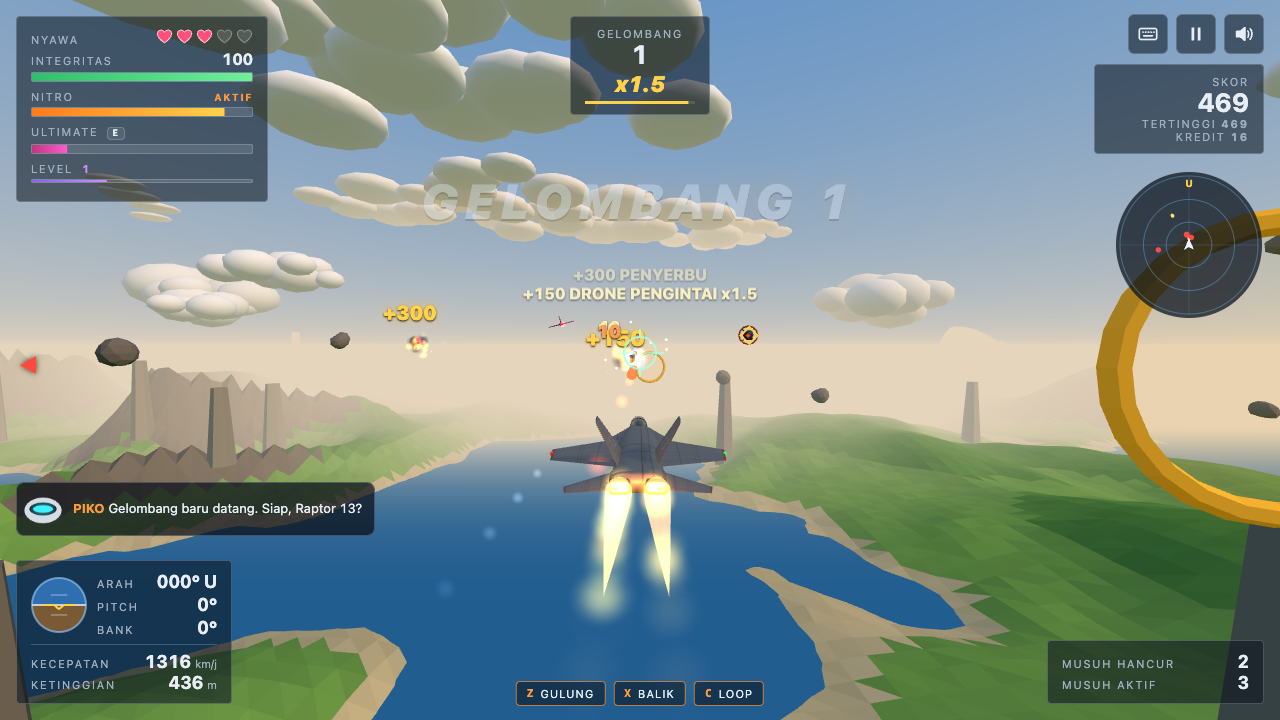
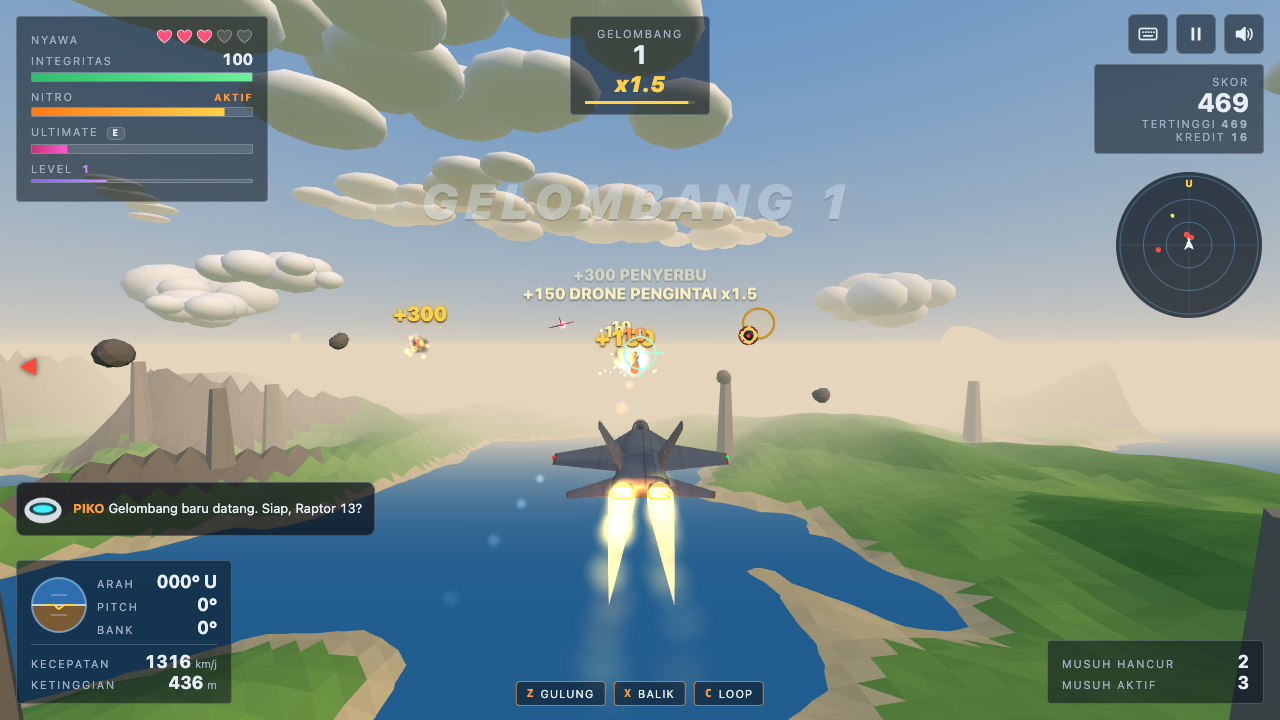
feat: H4 pusat notifikasi tunggal mode HP dengan antrean prioritas, chip peringatan kritis di tepi bawah, Bantuan robot Penuh, Ringkas, Hanya ikon, Mati
- Notify: satu toast di bawah baris misi, maksimal 2 baris dan tidak melewati 20 persen tinggi, lebar dibatasi elemen tetangga, kedaluwarsa dan sela prioritas
- Piko, banner, toast, dan panel data dialihkan ke Notify di mode HP; popup skor dibuang (angka emas melayang tetap ada)
- Peringatan terrain, HP kritis, musuh belakang, komet menjadi chip ikon berkedip di tepi bawah, teks maksimal 3 kata
- Teks ringkas Piko tanpa petunjuk tombol keyboard; migrasi opsi lama tanpa-teks dan tanpa-suara
- Hook debug stressHud, notify, notifyPush, alerts; hook viewport, setSetting, touchState dipulihkan

diff --git a/index.html b/index.html
@@ -517,6 +517,32 @@
   body.mode-hp .buff { padding: 2px 6px; gap: 4px; font-size: 11px; }
   body.mode-hp .buff span { display: none; }
   body.mode-hp .buff svg { width: 13px; height: 13px; }
+  /* Pusat notifikasi mode HP (H4): elemen teks lama disembunyikan, diganti satu toast dan chip tepi */
+  body.mode-hp #piko-panel, body.mode-hp #data-panel, body.mode-hp #banner, body.mode-hp #toasts,
+  body.mode-hp #warning, body.mode-hp #rear-warn, body.mode-hp #comet-warn, body.mode-hp #critical { display: none !important; }
+  .notify, .alerts { display: none; }
+  body.mode-hp .notify { --eye: 24px; --nl: 2;
+    display: flex; position: absolute; left: 50%; top: calc(var(--sa-t) + 28px); transform: translateX(-50%); max-width: min(56vw, 340px);
+    align-items: center; gap: 6px; padding: 2px 10px 2px 4px; min-height: calc(var(--eye) + 4px); background: rgba(8, 14, 24, 0.8);
+    border: 1px solid var(--ui-line); border-radius: 14px; font-size: 12px; line-height: 13px; font-weight: 700; color: #eef4fa;
+    text-shadow: 0 1px 2px rgba(0, 0, 0, 0.6); pointer-events: none; opacity: 0; visibility: hidden; transition: opacity 0.25s, visibility 0s linear 0.25s; }
+  body.mode-hp .notify.show { opacity: 1; visibility: visible; transition: opacity 0.2s; }
+  .notify:not(.piko) { padding-left: 10px; min-height: 0; padding-top: 3px; padding-bottom: 3px; }
+  #notify-eye { width: var(--eye); height: var(--eye); flex: none; display: none; }
+  .notify.piko #notify-eye { display: block; }
+  #notify-text { display: -webkit-box; -webkit-box-orient: vertical; -webkit-line-clamp: var(--nl); line-clamp: var(--nl); overflow: hidden; }
+  #notify-text:empty { display: none; }
+  .notify.piko:has(#notify-text:empty) { padding-right: 4px; }
+  .notify.k-area { border-color: rgba(111, 220, 255, 0.7); }
+  .notify.k-new { border-color: #ffd24a; color: #fff3c4; }
+  .notify.k-alert { border-color: rgba(255, 77, 77, 0.7); }
+  body.mode-hp .alerts { display: flex; position: absolute; left: 50%; bottom: var(--sa-b); transform: translateX(-50%); gap: 6px; pointer-events: none; }
+  .alert { display: flex; align-items: center; gap: 4px; height: 24px; padding: 0 9px 0 6px; border-radius: 12px; font-size: 11px; font-weight: 900;
+    letter-spacing: 0.06em; white-space: nowrap; color: #ffe0e0; background: rgba(120, 0, 0, 0.6); border: 1px solid var(--ui-bad); animation: alertBlink 0.7s steps(2) infinite; }
+  .alert svg { width: 15px; height: 15px; flex: none; fill: none; stroke: currentColor; stroke-width: 2.4; stroke-linecap: round; stroke-linejoin: round; }
+  .alert.comet { color: #d8f6ff; background: rgba(0, 70, 110, 0.6); border-color: #6fdcff; }
+  .alert.ic-only { padding: 0 4px; } .alert.ic-only span { display: none; }
+  @keyframes alertBlink { 50% { opacity: 0.5; } }
   body.mode-hp #warning, body.mode-hp #rear-warn, body.mode-hp #comet-warn, body.mode-hp #critical {
     top: auto; left: calc(50% - 33px); padding: 3px 7px; font-size: 10px; letter-spacing: 0.06em; white-space: nowrap; max-width: max(140px, calc(100vw - 520px)); overflow: hidden; text-overflow: ellipsis; }
   body.mode-hp #warning { bottom: calc(96px + var(--ed-b)); border-width: 1px; }
@@ -808,6 +834,14 @@
   <div id="fps" class="hidden">0 FPS</div>
   <div id="banner"></div>
   <div id="toasts"></div>
+  <!-- Mode HP (H4): satu toast notifikasi di tengah atas dan chip peringatan kritis di tepi bawah -->
+  <div id="notify" class="notify" aria-live="polite"><canvas id="notify-eye" width="48" height="48"></canvas><span id="notify-text"></span></div>
+  <div id="alerts" class="alerts">
+    <div class="alert hidden" data-alert="terrain"><svg viewBox="0 0 24 24"><path d="M12 19V5M5.5 11.5L12 5l6.5 6.5"/></svg><span>TARIK NAIK</span></div>
+    <div class="alert hidden" data-alert="hp"><svg viewBox="0 0 24 24"><path d="M12 20.5C5 15 1.5 11.5 1.5 7 1.5 3.8 4 1.5 7 1.5c2.2 0 3.9 1.2 5 3 1.1-1.8 2.8-3 5-3 3 0 5.5 2.3 5.5 5.5 0 4.5-3.5 8-10.5 13.5z"/><path d="M12 8v5"/></svg><span>HP KRITIS</span></div>
+    <div class="alert hidden" data-alert="rear"><svg viewBox="0 0 24 24"><path d="M12 5v14M5.5 12.5L12 19l6.5-6.5"/></svg><span>MUSUH BELAKANG</span></div>
+    <div class="alert comet hidden" data-alert="comet"><svg viewBox="0 0 24 24"><circle cx="16" cy="8" r="3.5"/><path d="M13.5 10.5L4 20M11 8.5L5 14.5M15.5 12.5L9.5 18.5"/></svg><span>KOMET</span></div>
+  </div>
 </div>
 <!-- Kontrol sentuh (mode HP): joystick melayang atau tombol arah di kiri, cluster aksi di kanan (ditukar di mode kidal) -->
 <div id="touch" class="hidden" aria-hidden="true">
@@ -971,7 +1005,7 @@
       </div>
       <span class="set-label">Bantuan robot</span>
       <div class="seg" data-key="robotHelp">
-        <button type="button" data-v="penuh">Penuh</button><button type="button" data-v="tanpa-teks">Tanpa teks</button><button type="button" data-v="tanpa-suara">Tanpa suara</button><button type="button" data-v="mati">Mati</button>
+        <button type="button" data-v="penuh">Penuh</button><button type="button" data-v="ringkas">Ringkas</button><button type="button" data-v="ikon">Hanya ikon</button><button type="button" data-v="mati">Mati</button>
       </div>
       <span class="set-label">Mode kontrol</span>
       <div class="seg" data-key="controlMode">
@@ -1726,7 +1760,7 @@ const SETTING_DEFAULTS = {
   controlTransparency: 20,     // transparansi kontrol sentuh dalam persen (0 pekat)
   leftHanded: false,           // mode kidal: joystick di kanan, tombol aksi di kiri
   bloom: true,                 // efek bloom di medan angkasa (dimatikan oleh kualitas Rendah)
-  robotHelp: 'penuh',          // bantuan robot Piko: penuh | tanpa-teks | tanpa-suara | mati
+  robotHelp: 'penuh',          // bantuan robot Piko: penuh | ringkas (bawaan di perangkat sentuh) | ikon | mati
   touchPromptShown: false,
 };
 const SETTING_ENUMS = {
@@ -1736,7 +1770,7 @@ const SETTING_ENUMS = {
   terrain: ['space', 'earth'],
   spaceMode: ['campaign', 'free'],
   aimAssist: ['mati', 'rendah', 'sedang'],
-  robotHelp: ['penuh', 'tanpa-teks', 'tanpa-suara', 'mati'],
+  robotHelp: ['penuh', 'ringkas', 'ikon', 'mati'],
   leftStyle: ['joystick', 'dpad'],
 };
 const SETTING_RANGES = { controlSize: [70, 130], controlTransparency: [0, 80], asteroidDensity: [0, 2], volMaster: [0, 100], volSfx: [0, 100], volEngine: [0, 100], volMusic: [0, 100] };
@@ -1759,7 +1793,10 @@ const Save = {
     const d = this.defaults();
     if (!raw || typeof raw !== 'object') return d;
     const isObj = (v) => (v ? typeof v === 'object' : false);
-    const rs = isObj(raw.settings) ? raw.settings : {};
+    const rs = isObj(raw.settings) ? { ...raw.settings } : {};
+    // Migrasi opsi Bantuan robot lama (H4): Tanpa teks menjadi Hanya ikon, Tanpa suara menjadi Ringkas
+    if (rs.robotHelp === 'tanpa-teks') rs.robotHelp = 'ikon';
+    if (rs.robotHelp === 'tanpa-suara') rs.robotHelp = 'ringkas';
     for (const k of Object.keys(SETTING_DEFAULTS)) {
       const v = rs[k], def = SETTING_DEFAULTS[k];
       if (typeof v !== typeof def) continue;
@@ -1823,7 +1860,7 @@ Save.load();
   let fresh = true;
   try { fresh = !window.localStorage.getItem(SAVE_KEY); } catch (err) { fresh = true; }
   const touch = (window.matchMedia ? window.matchMedia('(pointer: coarse)').matches : false) || (navigator.maxTouchPoints || 0) > 0;
-  if (fresh ? touch : false) Save.settings.quality = 'rendah';
+  if (fresh ? touch : false) { Save.settings.quality = 'rendah'; Save.settings.robotHelp = 'ringkas'; }
 })();
 CONFIG.qualityPreset = Save.settings.quality;
 
@@ -7076,6 +7113,8 @@ const Discovery = {
       Piko.say('discovery');
       Events.emit('discovery', id);
     }
+    // Mode HP: satu baris di pusat notifikasi (fakta lengkap ada di atlas Penemuan)
+    if (Notify.push(isNew ? 'PENEMUAN BARU: ' + F.name : F.name + ' · ' + F.cls, { kind: isNew ? 'new' : 'area', prio: 2, key: 'area-' + id })) return;
     this.el.classList.remove('hidden');
   },
   update(dt) {
@@ -10409,13 +10448,121 @@ function renderTitleBest() {
 }
 
 function showBanner(text, duration = 1800) {
+  if (Notify.push(text, { kind: 'info', prio: 2 })) return;   // mode HP: lewat pusat notifikasi
   hud.banner.textContent = text;
   hud.banner.animate(
     [{ opacity: 0, transform: 'scale(1.3)' }, { opacity: 1, transform: 'scale(1)', offset: 0.15 }, { opacity: 1, offset: 0.8 }, { opacity: 0 }],
     { duration, easing: 'ease-out' }
   );
 }
-function showToast(text) {
+/* =====================================================================
+   PUSAT NOTIFIKASI MODE HP (H4) - satu antrean berprioritas untuk Piko, nama area, pickup, level,
+   kontrak, dan banner. Hanya satu toast tampil pada satu waktu di tengah atas, tepat di bawah baris
+   misi, dan tidak pernah masuk zona tengah (y di atas 20 persen tinggi). Pesan kedaluwarsa dibuang,
+   prioritas lebih tinggi menyela. Peringatan kritis tidak lewat sini, tetapi chip ikon di tepi bawah.
+   ===================================================================== */
+const Notify = {
+  el: $('notify'), textEl: $('notify-text'), eye: $('notify-eye'),
+  queue: [], cur: null, until: 0, gapUntil: 0, history: [],
+  get active() { return Touch.enabled; },
+  now() { return performance.now() / 1000; },
+  dur(item) { return clamp(2.5 + item.text.length * 0.02, 2.5, 3.5); },
+  push(text, opt = {}) {
+    if (!this.active) return false;
+    const now = this.now(), prio = opt.prio || 1;
+    const item = { text: String(text || ''), kind: opt.kind || 'info', prio, key: opt.key || String(text), born: now, expires: now + (prio >= 3 ? 6 : 4) };
+    if (this.cur ? this.cur.key === item.key : false) { this.cur = item; this.render(item); this.until = now + this.dur(item); return true; }
+    this.queue = this.queue.filter((q) => q.key !== item.key);
+    if (this.cur ? item.prio > this.cur.prio : now >= this.gapUntil) { this.show(item, now); return true; }
+    this.queue.push(item);
+    this.queue.sort((a, b) => (b.prio - a.prio) || (a.born - b.born));
+    if (this.queue.length > 4) this.queue.length = 4;   // antrean menumpuk: buang yang paling tidak penting
+    return true;
+  },
+  // Posisi dan jumlah baris: tepat di bawah baris misi (atau bar bos), tidak melewati 20 persen tinggi tampak
+  layout() {
+    const anchor = Bosses.active ? document.getElementById('boss-bar') : document.getElementById('hpx-top');
+    const r = anchor.getBoundingClientRect();
+    const top = Math.round((r.height > 0 ? r.bottom : Viewport.edges().t + 24) + 4);
+    const avail = Math.floor(Viewport.h * 0.2) - top - 1;
+    const lines = clamp(Math.floor((avail - 6) / 13), 1, 2);
+    const eye = clamp(avail - 6, 14, 24);
+    // Lebar dibatasi elemen tetangga pada pita tinggi yang sama (status kiri, buff, radar, ikon peta, toolbar)
+    const cx = Viewport.w / 2, band = lines * 13 + 8;
+    let half = Math.min(Viewport.w * 0.28, 170);
+    for (const el of document.querySelectorAll('#hpx-status, #buffs .buff, #toolbar .tool, #radar, #btn-radar-map')) {
+      const b = el.getBoundingClientRect();
+      if (b.width < 1 ? true : (b.bottom <= top ? true : b.top >= top + Math.max(band, eye + 4))) continue;
+      if (b.right <= cx) half = Math.min(half, cx - b.right - 6); else if (b.left >= cx) half = Math.min(half, b.left - cx - 6);
+    }
+    this.el.style.maxWidth = Math.max(120, Math.floor(half * 2)) + 'px';
+    this.el.style.top = top + 'px';
+    this.el.style.setProperty('--nl', String(lines));
+    this.el.style.setProperty('--eye', eye + 'px');
+  },
+  render(item) {
+    this.textEl.textContent = item.text;
+    this.el.className = 'notify show k-' + item.kind + (item.kind === 'piko' ? ' piko' : '');
+    if (item.kind === 'piko') { const g = this.eye.getContext('2d'); g.clearRect(0, 0, 48, 48); g.drawImage(Piko.face, 0, 0, 56, 56, 0, 0, 48, 48); }
+  },
+  show(item, now) {
+    this.cur = item;
+    this.bossAnchor = !!Bosses.active;
+    this.until = now + this.dur(item);
+    this.layout();
+    this.render(item);
+    this.history.push(item.text || '(ikon ' + item.kind + ')');
+    if (this.history.length > 30) this.history.shift();
+  },
+  hide() { this.cur = null; this.el.classList.remove('show'); },
+  update() {
+    if (!this.active) { if (this.cur) this.hide(); return; }
+    const now = this.now();
+    if (this.cur) {
+      if (now >= this.until) { this.hide(); this.gapUntil = now + 0.25; return; }
+      if (this.bossAnchor !== !!Bosses.active) { this.bossAnchor = !!Bosses.active; this.layout(); }   // bar bos muncul atau hilang
+      return;
+    }
+    if (now < this.gapUntil) return;
+    while (this.queue.length) { const next = this.queue.shift(); if (next.expires > now) { this.show(next, now); break; } }
+  },
+  reset() { this.queue.length = 0; this.hide(); this.gapUntil = 0; },
+};
+// Chip peringatan kritis di tepi bawah mode HP: urutan prioritas, teks hanya untuk yang paling penting bila ramai
+const ALERT_TEXT = { 'TARIK NAIK!': 'TARIK NAIK', 'TERLALU RENDAH': 'TERLALU RENDAH', 'TERLALU DEKAT': 'TERLALU DEKAT', 'KELUAR BATAS MISI': 'BATAS MISI' };
+hud.alertEls = {};
+for (const el of document.querySelectorAll('#alerts .alert')) hud.alertEls[el.dataset.alert] = el;
+function updateAlertsHp(hp) {
+  const play = Game.state === 'playing' ? Player.alive : false;
+  const F = Debug.forceAlerts;   // uji tekanan: semua peringatan dipaksa tampil
+  const warn = F ? 'TARIK NAIK!' : play ? (Player.warning || '') : '';
+  const on = F ? { terrain: true, hp: true, rear: true, comet: true }
+    : { terrain: !!warn, hp: play ? hp < CONFIG.player.criticalHp : false, rear: play ? Enemies.rearThreat : false, comet: Game.state === 'playing' ? Comets.threat !== null : false };
+  const key = Object.entries(on).map(([k, v]) => (v ? k : '')).join(',') + '|' + warn;
+  if (!changed('alerts', key)) return;
+  let shown = 0;
+  const count = Object.values(on).filter(Boolean).length;
+  for (const k of ['terrain', 'hp', 'rear', 'comet']) {
+    const el = hud.alertEls[k];
+    el.classList.toggle('hidden', !on[k]);
+    if (!on[k]) continue;
+    el.classList.toggle('ic-only', count >= 3 ? shown > 0 : false);
+    if (k === 'terrain') el.querySelector('span').textContent = ALERT_TEXT[warn] || 'AWAS';
+    shown++;
+  }
+  // Ruang di antara kontrol kiri dan cluster kanan: chip berteks diubah menjadi ikon saja dari belakang bila tidak muat
+  const box = $('alerts'), left = document.querySelector(Save.settings.leftStyle === 'dpad' ? '#dpad' : '#joy').getBoundingClientRect();
+  const act = Touch.actionsEl.getBoundingClientRect(), cx = Viewport.w / 2;
+  const limits = [left, act].filter((r) => r.width > 0).map((r) => (r.right <= cx ? cx - r.right : r.left - cx) - 8);
+  const maxW = Math.max(60, Math.floor(2 * Math.min(...limits, Viewport.w * 0.4)));
+  const list = ['comet', 'rear', 'hp', 'terrain'].map((k) => hud.alertEls[k]).filter((el) => !el.classList.contains('hidden'));
+  for (const el of list) { if (box.scrollWidth <= maxW) break; el.classList.add('ic-only'); }
+}
+
+// minor = popup skor; di mode HP dibuang karena angka emas melayang sudah menunjukkannya
+function showToast(text, minor = false) {
+  if (Touch.enabled ? minor : false) return;
+  if (Notify.push(text, { kind: 'info', prio: 1 })) return;
   const el = hud.toastPool[hud.toastNext];
   hud.toastNext = (hud.toastNext + 1) % hud.toastPool.length;
   el.textContent = text;
@@ -10433,7 +10580,7 @@ Events.on('score', (amount, label) => {
   const m = Combo.multiplier;
   const isKill = label !== 'ULTIMATE' ? amount > 0 : false;
   const suffix = isKill ? (m > 1 ? `  x${m}` : '') : '';
-  showToast(`+${amount} ${label}${suffix}`);
+  showToast(`+${amount} ${label}${suffix}`, true);
 });
 Events.on('playerHit', (amount) => { hud.vignetteLevel = Math.min(1, hud.vignetteLevel + amount / 20); });
 // Hit marker di reticle saat peluru pemain memberi damage (merah bila target hancur)
@@ -10581,7 +10728,8 @@ function updateHud(dt) {
   if (Game.state === 'playing') Radar.update();
   v = Game.state === 'playing' ? (Player.alive ? hp < CONFIG.player.criticalHp : false) : false;
   if (changed('critical', v)) $('critical').classList.toggle('hidden', !v);
-  if (Touch.enabled) updateHudHp(hp);
+  if (Touch.enabled) { updateHudHp(hp); updateAlertsHp(hp); }
+  Notify.update();
 
   hud.hitTimer = Math.max(0, hud.hitTimer - dt);
   v = hud.hitTimer > 0 ? (hud.hitKill ? 'on kill' : 'on') : '';
@@ -10943,6 +11091,7 @@ function resetSession(keepWorld = false) {
   Stars.reset();
   Ultimate.reset();
   Piko.reset();
+  Notify.reset();
   Metrics.reset();
   hud.vignetteLevel = 0;
   Game.hasSession = true;
@@ -11227,23 +11376,23 @@ Events.on('gameover', () => {
 
 /* Piko: peringatan bersubtitle dan bunyi bip, dengan jeda minimum, cooldown per pesan dan prioritas */
 const PIKO_LINES = {
-  enemyBehind: { text: 'Ada musuh di belakang kita! Coba Balik Arah dengan X.', mood: 'alert', prio: 3 },
-  hpLow: { text: 'Integritas kritis! Cari bintang perbaikan, cepat.', mood: 'danger', prio: 4 },
-  waveStart: { text: 'Gelombang baru datang. Siap, Raptor 13?', mood: 'calm', prio: 1 },
-  combo: { text: 'Mantap! Kombo terus naik, jangan berhenti!', mood: 'happy', prio: 1 },
-  rarePickup: { text: 'Sinyal langka terdeteksi di dekat kita. Kuberi tanda hijau.', mood: 'happy', prio: 2 },
-  comet: { text: 'Komet mendekat! Menyingkir atau hancurkan.', mood: 'alert', prio: 3 },
-  mine: { text: 'Ranjau di dekat sini. Jangan terlalu rapat.', mood: 'danger', prio: 3 },
-  gate: { text: 'Gerbang loncat terbuka. Ayo kita pergi!', mood: 'happy', prio: 2 },
-  terrain: { text: 'Terlalu dekat dengan permukaan! Tarik naik!', mood: 'danger', prio: 4 },
-  boundary: { text: 'Kita di tepi wilayah misi. Putar balik, Raptor 13!', mood: 'alert', prio: 3 },
-  discovery: { text: 'Penemuan baru! Datanya kusimpan di atlas.', mood: 'happy', prio: 2 },
-  boss: { text: 'Kapal besar mendekat! Cari titik lemahnya.', mood: 'alert', prio: 4 },
-  bossPhase: { text: 'Polanya berubah! Tetap bergerak.', mood: 'alert', prio: 3 },
-  target: { text: 'Komandan bertanda terdeteksi. Itu target kontrak kita!', mood: 'alert', prio: 3 },
-  contractburu: { text: 'Kontrak buruan diterima. Komandan bertanda akan muncul sebentar lagi.', mood: 'calm', prio: 2 },
-  contractkawal: { text: 'Kargo kawan bergantung pada kita. Jauhkan peluru Vanta darinya.', mood: 'calm', prio: 2 },
-  contractbersihkan: { text: 'Bersihkan sektor! Aku yang menghitung, kamu yang menembak.', mood: 'happy', prio: 2 },
+  enemyBehind: { text: 'Ada musuh di belakang kita! Coba Balik Arah dengan X.', mood: 'alert', prio: 3, short: 'Musuh di belakang! Balik Arah!', touch: 'Ada musuh di belakang kita! Coba tombol Balik Arah.' },
+  hpLow: { text: 'Integritas kritis! Cari bintang perbaikan, cepat.', mood: 'danger', prio: 4, short: 'Integritas kritis! Cari perbaikan.' },
+  waveStart: { text: 'Gelombang baru datang. Siap, Raptor 13?', mood: 'calm', prio: 1, short: 'Gelombang baru datang!' },
+  combo: { text: 'Mantap! Kombo terus naik, jangan berhenti!', mood: 'happy', prio: 1, short: 'Kombo naik terus!' },
+  rarePickup: { text: 'Sinyal langka terdeteksi di dekat kita. Kuberi tanda hijau.', mood: 'happy', prio: 2, short: 'Sinyal langka, kuberi tanda hijau.' },
+  comet: { text: 'Komet mendekat! Menyingkir atau hancurkan.', mood: 'alert', prio: 3, short: 'Komet mendekat! Menyingkir!' },
+  mine: { text: 'Ranjau di dekat sini. Jangan terlalu rapat.', mood: 'danger', prio: 3, short: 'Awas ranjau di dekat sini!' },
+  gate: { text: 'Gerbang loncat terbuka. Ayo kita pergi!', mood: 'happy', prio: 2, short: 'Gerbang loncat terbuka!' },
+  terrain: { text: 'Terlalu dekat dengan permukaan! Tarik naik!', mood: 'danger', prio: 4, short: 'Terlalu dekat! Tarik naik!' },
+  boundary: { text: 'Kita di tepi wilayah misi. Putar balik, Raptor 13!', mood: 'alert', prio: 3, short: 'Tepi wilayah misi, putar balik!' },
+  discovery: { text: 'Penemuan baru! Datanya kusimpan di atlas.', mood: 'happy', prio: 2, short: 'Penemuan baru tersimpan di atlas!' },
+  boss: { text: 'Kapal besar mendekat! Cari titik lemahnya.', mood: 'alert', prio: 4, short: 'Kapal besar! Cari titik lemahnya.' },
+  bossPhase: { text: 'Polanya berubah! Tetap bergerak.', mood: 'alert', prio: 3, short: 'Polanya berubah, tetap bergerak!' },
+  target: { text: 'Komandan bertanda terdeteksi. Itu target kontrak kita!', mood: 'alert', prio: 3, short: 'Target kontrak terdeteksi!' },
+  contractburu: { text: 'Kontrak buruan diterima. Komandan bertanda akan muncul sebentar lagi.', mood: 'calm', prio: 2, short: 'Komandan bertanda segera muncul.' },
+  contractkawal: { text: 'Kargo kawan bergantung pada kita. Jauhkan peluru Vanta darinya.', mood: 'calm', prio: 2, short: 'Lindungi kargo kawan!' },
+  contractbersihkan: { text: 'Bersihkan sektor! Aku yang menghitung, kamu yang menembak.', mood: 'happy', prio: 2, short: 'Bersihkan sektor, aku menghitung!' },
 };
 const Piko = {
   panel: document.getElementById('piko-panel'), face: document.getElementById('piko-face'), textEl: document.getElementById('piko-text'),
@@ -11267,6 +11416,12 @@ const Piko = {
     g.shadowBlur = 0;
   },
   // Ucapan: dibatasi jeda minimum dan cooldown per pesan; prioritas lebih tinggi boleh menyela
+  // Teks sesuai opsi Bantuan robot: penuh, ringkas, atau kosong (hanya ikon). Mode HP tanpa petunjuk tombol keyboard.
+  textFor(L) {
+    if (this.help === 'ikon') return '';
+    if (this.help === 'ringkas') return L.short || L.text;
+    return Touch.enabled ? (L.touch || L.text) : L.text;
+  },
   say(key) {
     const L = PIKO_LINES[key];
     if (!L || this.help === 'mati' || Game.state !== 'playing') return false;
@@ -11276,14 +11431,15 @@ const Piko = {
     this.last = t; this.lastByKey[key] = t; this.curPrio = L.prio;
     this.said.push(key);
     this.setMood(L.mood, this.showTime);
-    if (this.help !== 'tanpa-teks') {
+    const text = this.textFor(L);
+    if (Touch.enabled) Notify.push(text, { kind: 'piko', prio: L.prio + 1, key: 'piko-' + key });
+    else {
       this.textEl.innerHTML = '';
-      const b = document.createElement('b'); b.textContent = 'PIKO';
-      this.textEl.append(b, document.createTextNode(L.text));
+      if (text) { const b = document.createElement('b'); b.textContent = 'PIKO'; this.textEl.append(b, document.createTextNode(text)); }
       this.panel.classList.remove('hidden');
       this.showLeft = this.showTime;
     }
-    if (this.help !== 'tanpa-suara') Sfx.pikoBeep(L.mood);
+    Sfx.pikoBeep(L.mood);
     return true;
   },
   update(dt) {
@@ -12317,10 +12473,50 @@ window.__game = {
     offerCards(ids) { Levels.open(ids); return Levels.offer.map((c) => c.id); },
     pickCard(id) { return Levels.choose(id); },
     companions() { return Companions.list.map((c) => ({ active: c.active, visible: c.group.visible, inScene: !!c.group.parent, d: round2(c.pos.distanceTo(Player.pos)) })); },
+    // Ukuran tampak, satuan --u, skala kontrol, dan jarak tepi efektif (H1)
+    viewport() {
+      const px = (e) => round2(Viewport.px(e));
+      return { w: Viewport.w, h: Viewport.h, u: px('var(--u)'), cu: px('var(--cu)'), cs: Number(getComputedStyle(document.documentElement).getPropertyValue('--cs')) || 1,
+        sa: { l: px('var(--sa-l)'), t: px('var(--sa-t)'), r: px('var(--sa-r)'), b: px('var(--sa-b)') }, ed: Viewport.edges(), override: Viewport.override };
+    },
+    // Ubah satu pengaturan lewat jalur yang sama dengan panel Pengaturan
+    setSetting(key, value) { if (!Object.hasOwn(SETTING_DEFAULTS, key)) return false; Settings.set(key, value); return Save.settings[key]; },
+    // Uji tekanan HUD (H9): munculkan semua elemen sekaligus (bos, buff, semua peringatan, Piko panjang,
+    // nama area, level, kombo, penemuan) lewat jalur yang sebenarnya; on = false mengembalikan normal
+    stressHud(on = true) {
+      Debug.forceAlerts = !!on;
+      hud.last.alerts = null;
+      if (!on) return true;
+      if (!Bosses.active) Bosses.start('hunter');
+      Buffs.overdrive = 10; Buffs.destroyer = 10;
+      Combo.count = 12; Combo.timer = CONFIG.combo.window;
+      Player.ult = 1;
+      Piko.last = -100; Piko.lastByKey = {};
+      Piko.say('enemyBehind');
+      Notify.push('PENEMUAN BARU: Saturnus', { kind: 'new', prio: 2, key: 'stress-area' });
+      Notify.push('LEVEL ' + (Levels.level + 1) + ' TERCAPAI', { kind: 'info', prio: 2, key: 'stress-level' });
+      Notify.push('KOMBO x' + Combo.multiplier, { kind: 'info', prio: 1, key: 'stress-combo' });
+      if (!Touch.enabled) {
+        Discovery.show('saturnus');
+        showBanner('GELOMBANG 9', 4000);
+        for (const id of ['warning', 'rear-warn', 'comet-warn', 'critical']) $(id).classList.remove('hidden');
+      }
+      return { boss: !!Bosses.active, notify: Notify.cur ? Notify.cur.text : '', queue: Notify.queue.length };
+    },
+    // Pusat notifikasi mode HP (H4)
+    notify() { return { visible: Notify.el.classList.contains('show'), text: Notify.textEl.textContent, kind: Notify.cur ? Notify.cur.kind : null, queue: Notify.queue.length, history: [...Notify.history] }; },
+    notifyPush(text, kind = 'info', prio = 1) { return Notify.push(text, { kind, prio }); },
+    alerts() { return Object.fromEntries(Object.entries(hud.alertEls).map(([k, el]) => [k, !el.classList.contains('hidden')])); },
+    // Keadaan kontrol sentuh (H2): sumbu joystick, arah tombol arah, tombol tertahan, skala efektif
+    touchState() {
+      const J = Touch.joy, D = Touch.dpad.dir;
+      return { enabled: Touch.enabled, joyActive: J.id !== null, joy: { x: round2(J.x), y: round2(J.y) }, pitch: round2(Controls.pitch), yaw: round2(Controls.yaw),
+        fire: Controls.fire, nitro: Controls.nitro, dpad: { ...D }, counts: { ...Touch.counts }, scale: Touch.scale, style: Save.settings.leftStyle, kidal: Save.settings.leftHanded };
+    },
     // Periksa tumpang tindih tata letak HUD dan tombol sentuh (kotak batas elemen yang tampil).
     // Tombol sentuh diukur dengan area sentuh efektif (ukuran tampak ditambah hit slop ::before).
     layoutOverlaps() {
-      const sel = ['#touch .tbtn', '#joy', '#dpad', '.hud-block', '#radar', '#piko-panel', '#data-panel', '#boss-bar', '#toolbar .tool', '#maneuvers', '#buffs .buff', '#warning', '#rear-warn', '#comet-warn', '#critical'];
+      const sel = ['#touch .tbtn', '#joy', '#dpad', '.hud-block', '.hpx-block', '#radar', '#btn-radar-map', '#notify.show', '#alerts .alert', '#piko-panel', '#data-panel', '#boss-bar', '#toolbar .tool', '#maneuvers', '#buffs .buff', '#warning', '#rear-warn', '#comet-warn', '#critical'];
       const items = [];
       for (const q of sel) for (const el of document.querySelectorAll(q)) {
         if (el.offsetParent === null ? getComputedStyle(el).position !== 'fixed' : false) continue;

diff --git a/docs/PROGRESS.md b/docs/PROGRESS.md
@@ -101,7 +101,7 @@ y 20 sampai 80 persen) bebas UI.
 - H1 (SELESAI) Audit CSS mode HP, var --u (clamp(34px, 11vh, 48px), dari visualViewport), --sa-l/t/r/b = max(safe-area, 8px), override ?safearea=kiri,atas,kanan,bawah, hapus penjumlahan 16px dengan safe-area.
 - H2 (SELESAI) Joystick analog melayang (separuh kiri, deadzone 12 persen, kurva halus, lewat Controls), cluster aksi baru (tembak pojok kanan bawah, nitro di atasnya, 2x2 manuver dan ultimate), hit slop 44 px, opsi Ukuran kontrol, Transparansi, Mode kidal, Gaya kontrol kiri (Joystick atau Tombol arah).
 - H3 (SELESAI) HUD kompak (kiri atas 150x48, baris misi tengah atas, kanan atas hanya Jeda dan Suara), radar 48 sampai 56 px dengan ikon peta, teks minimum 11 px.
-- H4 (BELUM) Pusat notifikasi tunggal dengan antrean prioritas (Piko, area, pickup, level, kontrak), indikator tepi untuk peringatan kritis, Bantuan robot: Penuh, Ringkas, Hanya ikon, Mati.
+- H4 (SELESAI) Pusat notifikasi tunggal dengan antrean prioritas (Piko, area, pickup, level, kontrak), indikator tepi untuk peringatan kritis, Bantuan robot: Penuh, Ringkas, Hanya ikon, Mati.
 - H5 (BELUM) Kamera mode HP: jarak dan offset agar pesawat maksimal 18 persen tinggi di sepertiga bawah, opsi Jarak kamera.
 - H6 (BELUM) Menu dua kolom, jeda dua kolom, pengaturan bertab, kartu kontrak dan level, game over, stage clear, peta, hangar, atlas muat di 320 px; teks petunjuk per mode; overlay menyembunyikan HUD.
 - H7 (BELUM) Deteksi perangkat sentuh otomatis, layar penuh dan kunci orientasi, petunjuk Tambahkan ke Layar Utama di iOS, overlay putar layar.
